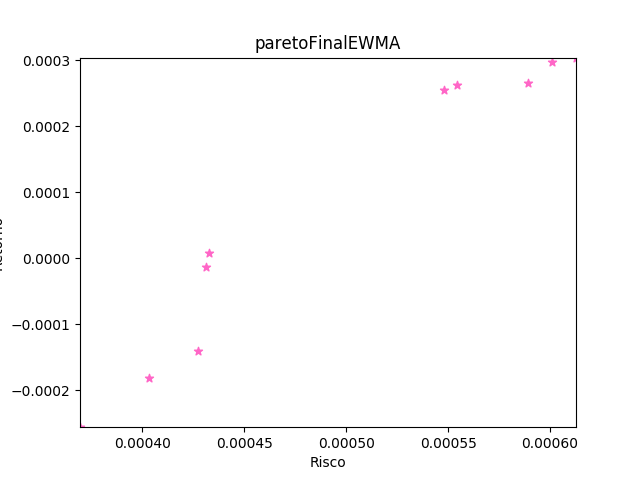
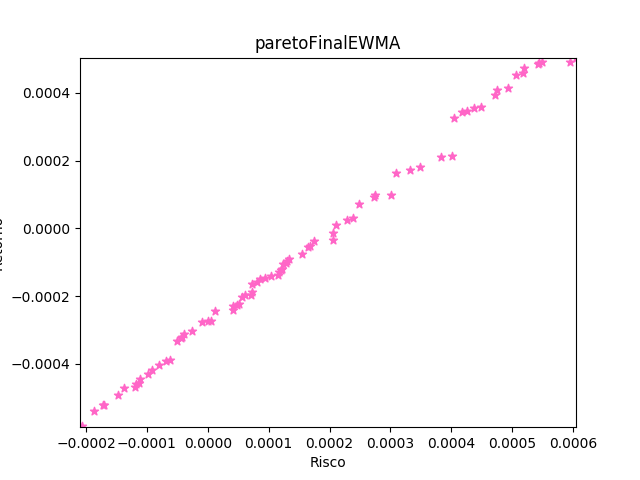
graficos

diff --git a/direto/nsga2.py b/direto/nsga2.py
@@ -197,7 +197,7 @@ def le_arquivo_retorna_lista_ativos(data_inicial, data_final, ibovespa):
     
      
 
-def populacao_inicial():
+def populacao_inicial(lista_ativos):
     populacao = []
     for j in range(TAM_POP):
         carteira = []
@@ -215,9 +215,8 @@ def otimiza(populacao_filtrada, lista_ativos):
     return filtragem(populacaoMutada, False).copy()
 
 
-def main():
 
-    global lista_ativos
+def main():
 
     lista_ativos_grafico = []
     lista_ibovespa_grafico = []
@@ -229,7 +228,7 @@ def main():
     
     #Separa as cotações dos ativos em semestres (lista de matrizes)
     
-    lista_ativos = le_arquivo_retorna_lista_ativos(datas[0], datas[1], False)
+    
     
     for i in range(0,len(datas_grafico) - 1,2):
         lista_ativos_grafico.append(le_arquivo_retorna_lista_ativos(datas_grafico[i], datas_grafico[i+1], False))
@@ -250,64 +249,64 @@ def main():
 
     
     for risco in range(QUANTIDADE_METRICAS):
-        lista_ativos = metrica_risco(lista_ativos,risco)
-        
+
+        lista_ativos = le_arquivo_retorna_lista_ativos(datas[0], datas[1], False)
+        lista_ativos_metrica = metrica_risco(lista_ativos,risco)
+
+        x_soma_execucoes = []
+        y_soma_execucoes = []
         primeira_execucao = True  
         
-        x = []
-        y = [] 
-        
+       
         #EXECUÇÕES
         for j in range(EXECUCOES):
-            start = timeit.default_timer()  
+
+            x_iteracao = []
+            y_iteracao = [] 
 
             #INICIALIZAÇÃO
-            populacao = populacao_inicial()
+            populacao = populacao_inicial(lista_ativos_metrica)
             pop_filtrada = filtragem(populacao, True)
+
             #GRAFICO INICIAL 
             x1 = []
-            y1 = []
-            
+            y1 = []            
             for carteira in pop_filtrada:
                 x1.append(carteira.getRisco())
                 y1.append(carteira.getRetorno())
+
             #ITERAÇÕES
             cont=0
             for i in range(ITERACOES):
-                #print("RISCO: " + str(risco) + " EXEC: " + str(j) + " ITERACOES: " + str(cont))
+                print("RISCO: " + str(risco) + " EXEC: " + str(j) + " ITERACOES: " + str(cont))
                 cont+=1
-                pop = otimiza(pop_filtrada, lista_ativos)
+                pop = otimiza(pop_filtrada, lista_ativos_metrica)
                 pop_filtrada = pop.copy()
                 solucao_parcial = melhor_carteira(pop_filtrada)
                 if solucao_final[risco] == None or solucao_parcial.fitness() > solucao_final[risco].fitness():
                     solucao_final[risco] = solucao_parcial
 
             #GRAFICO FINAL DA ITERAÇÃO
-            x2 = []
-            y2 = []
             for carteira in pop_filtrada:
-                x2.append(carteira.getRisco())
-                y2.append(carteira.getRetorno())   
+                x_iteracao.append(carteira.getRisco())
+                y_iteracao.append(carteira.getRetorno())   
             
             if primeira_execucao:
-                x = copy.copy(x2)
-                y = copy.copy(y2)
+                x_soma_execucoes = copy.copy(x_iteracao)
+                y_soma_execucoes = copy.copy(y_iteracao)
                 primeira_execucao = False
             else:
                 for i in range(len(pop_filtrada)):
-                    x[i] += x2[i]
-                    y[i] += y2[i]
-
-            stop = timeit.default_timer()
-            #print('******Time: ', stop - start)  
+                    x_soma_execucoes[i] += x_iteracao[i]
+                    y_soma_execucoes[i] += y_iteracao[i]
 
         #GRAFICO FINAL DA EXECUÇÃO
         for j in range(len(pop_filtrada)):
-            x[j]/=EXECUCOES
-            y[j]/=EXECUCOES
+            x_soma_execucoes[j]/=EXECUCOES
+            y_soma_execucoes[j]/=EXECUCOES
         
-        pontos_x[risco] = x
-        pontos_y[risco] = y
+        pontos_x[risco] = x_soma_execucoes
+        pontos_y[risco] = y_soma_execucoes
         
     
     grafico_tempo_barras(solucao_final, lista_ativos_grafico, lista_ibovespa_grafico)

diff --git a/semestral/nsga2.py b/semestral/nsga2.py
@@ -266,24 +266,18 @@ def main():
             lista_ativos = metrica_risco(lista_ativos,risco)
             
             primeira_execucao = True  
-            
-            x = []
-            y = [] 
+            x_soma_execucoes = []
+            y_soma_execucoes = [] 
             
             #EXECUÇÕES
             for j in range(EXECUCOES):
-                start = timeit.default_timer()  
 
                 #INICIALIZAÇÃO
                 populacao = populacao_inicial()
                 pop_filtrada = filtragem(populacao, True)
-                #GRAFICO INICIAL 
-                x1 = []
-                y1 = []
-                
-                for carteira in pop_filtrada:
-                    x1.append(carteira.getRisco())
-                    y1.append(carteira.getRetorno())
+                x_iteracoes = []
+                y_iteracoes = []
+
                 #ITERAÇÕES
                 cont=0
                 for i in range(ITERACOES):
@@ -296,31 +290,28 @@ def main():
                         solucao_final[risco] = solucao_parcial
 
                 #GRAFICO FINAL DA ITERAÇÃO
-                x2 = []
-                y2 = []
+                x_iteracoes = []
+                y_iteracoes = []
                 for carteira in pop_filtrada:
-                    x2.append(carteira.getRisco())
-                    y2.append(carteira.getRetorno())   
+                    x_iteracoes.append(carteira.getRisco())
+                    y_iteracoes.append(carteira.getRetorno())   
                 
                 if primeira_execucao:
-                    x = copy.copy(x2)
-                    y = copy.copy(y2)
+                    x_soma_execucoes = copy.copy(x_iteracoes)
+                    y_soma_execucoes = copy.copy(y_iteracoes)
                     primeira_execucao = False
                 else:
                     for i in range(len(pop_filtrada)):
-                        x[i] += x2[i]
-                        y[i] += y2[i]
-
-                stop = timeit.default_timer()
-                #print('******Time: ', stop - start)  
+                        x_soma_execucoes[i] += x_iteracoes[i]
+                        y_soma_execucoes[i] += y_iteracoes[i] 
 
             #GRAFICO FINAL DA EXECUÇÃO
             for j in range(len(pop_filtrada)):
-                x[j]/=EXECUCOES
-                y[j]/=EXECUCOES
+                x_soma_execucoes[j]/=EXECUCOES
+                y_soma_execucoes[j]/=EXECUCOES
             
-            pontos_x[risco] = x
-            pontos_y[risco] = y
+            pontos_x[risco] = x_soma_execucoes
+            pontos_y[risco] = y_soma_execucoes
         
         pontos_x_por_semestre.append(pontos_x)
         pontos_y_por_semestre.append(pontos_y)
@@ -329,7 +320,9 @@ def main():
  
     grafico_tempo_barras(solucao_final_por_semestre, lista_ativos_proximo_semestre)
     grafico_tempo(solucao_final, lista_ativos_proximo_semestre, lista_ibovespa_proximo_semestre)
+    
     grafico_risco_retorno(pontos_x[0], pontos_y[0], "paretoFinalCVaR")
+    
     grafico_risco_retorno(pontos_x[1], pontos_y[1], "paretoFinalVaR")
     grafico_risco_retorno(pontos_x[2], pontos_y[2], "paretoFinalEWMA")
     grafico_risco_retorno(pontos_x[3], pontos_y[3], "paretoFinalGARCH")

diff --git a/direto/aux.py b/direto/aux.py
@@ -85,15 +85,6 @@ def melhor_carteira(pop):
     return carteira
 
 
-def desvio_padrao(lista):
-    n = len(lista)
-    media = sum(lista)/n
-    cont = 0
-    for i in lista:
-        cont += (abs(i - media))**2
-    cont/=n
-    cont = math.sqrt(cont)
-    return cont
 
 def calcula_cotacoes_carteira_2015_2018(carteira):
     numero_cotacoes = len(carteira.getAtivoPeloIndex(0)[0].getCotacoes())

diff --git a/direto/globais.py b/direto/globais.py
@@ -1,12 +1,12 @@
-TAM_POP = 10
+TAM_POP = 80
 CARDINALIDADE = 9
-ITERACOES = 10
-EXECUCOES = 2
+ITERACOES = 100
+EXECUCOES = 1
 QUANTIDADE_ATIVOS = 62
 QUANTIDADE_METRICAS = 5
 PROBABILIDADE_MUTACAO = 0.1
 
-lista_ativos = []
+#lista_ativos = []
 lista_ibovespa = []
 lista_ativos_proximo_semestre = []
 lista_ibovespa_proximo_semestre = []

diff --git a/semestral/aux.py b/semestral/aux.py
@@ -104,15 +104,7 @@ def calcula_cotacoes_carteira_2015_2018(carteira):
     return y
 
 
-def desvio_padrao(lista):
-    n = len(lista)
-    media = sum(lista)/n
-    cont = 0
-    for i in lista:
-        cont += (abs(i - media))**2
-    cont/=n
-    cont = math.sqrt(cont)
-    return cont
+
 
 
 def grafico_risco_retorno(x,y,nome):

diff --git a/grafico_comparacao.py b/grafico_comparacao.py
@@ -31,8 +31,6 @@ print(desvio_semestral)
 print(desvio_direto)
 
 
-
-
 # create plot
 n_groups = len(retornos_acumulados_semestral)
 fig, ax = plt.subplots()

diff --git a/semestral/globais.py b/semestral/globais.py
@@ -1,6 +1,6 @@
-TAM_POP = 10
+TAM_POP = 80
 CARDINALIDADE = 9
-ITERACOES = 20
+ITERACOES = 100
 EXECUCOES = 1
 QUANTIDADE_ATIVOS = 62
 QUANTIDADE_METRICAS = 5
